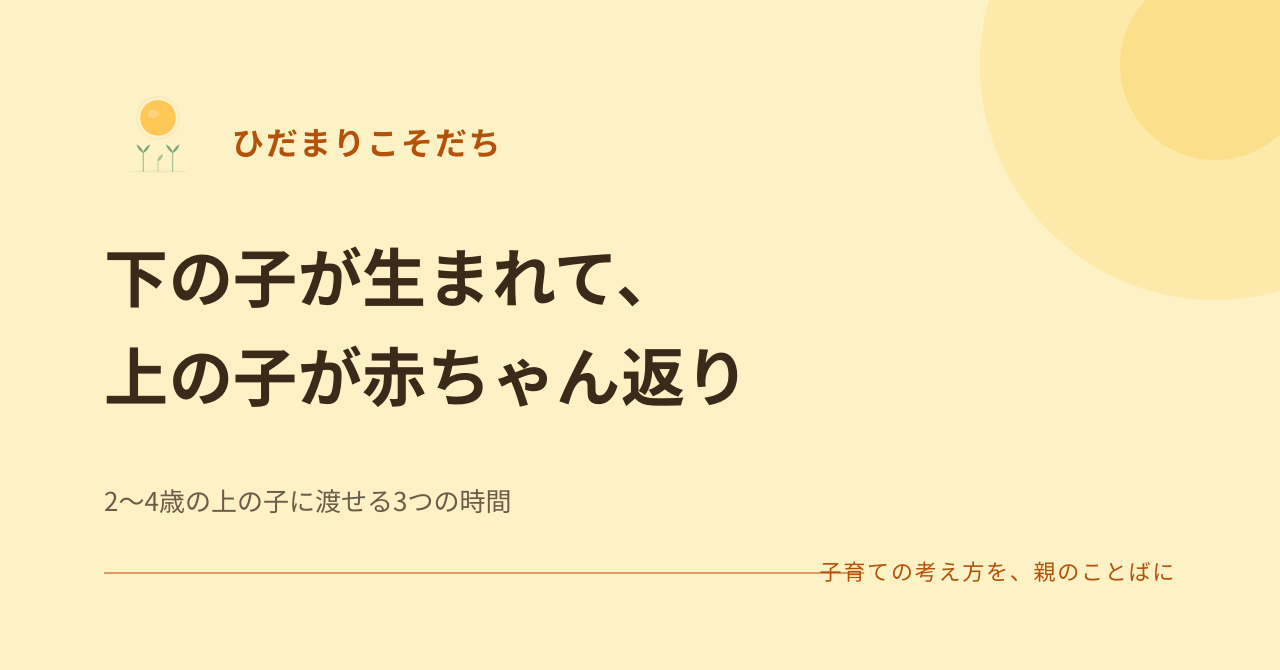
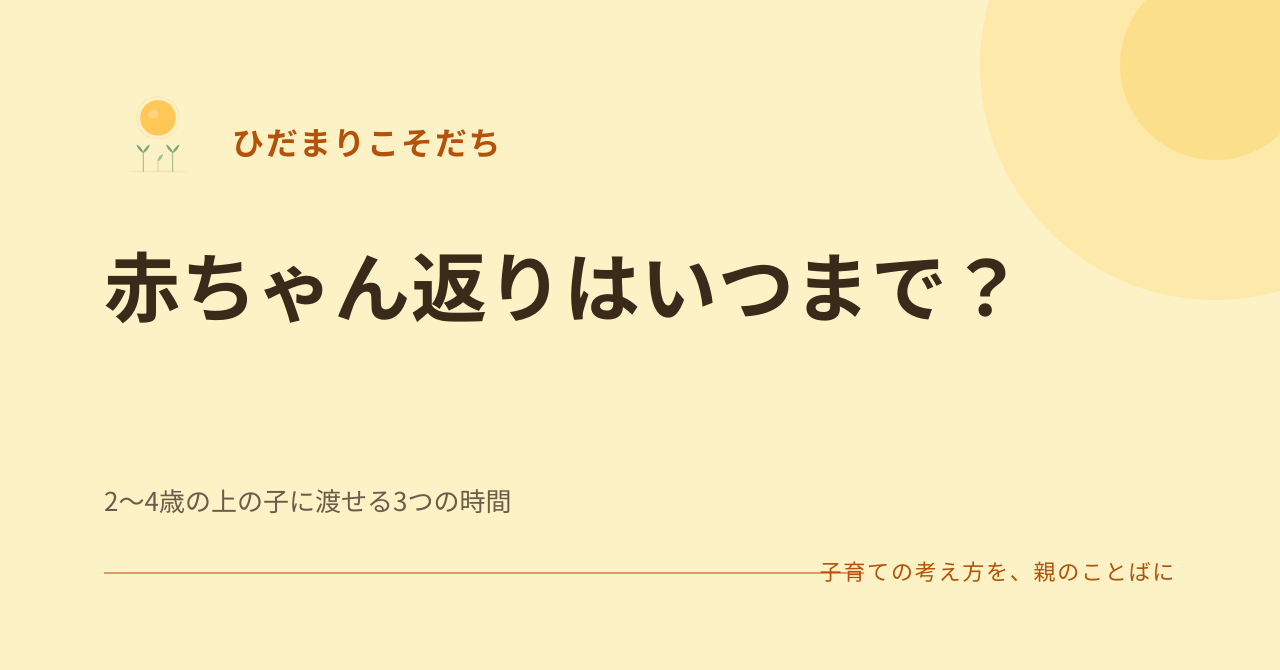
feat: 需要調査 demand_scan.py（検索候補から企画）／10/20 を「赤ちゃん返りはいつまで？」に改題

Changed region(s): [[0.0625, 0.3582, 0.8125, 0.4776], [0.0938, 0.5075, 0.5938, 0.6269]]

diff --git a/scripts/demand_scan.py b/scripts/demand_scan.py
@@ -1,0 +1,79 @@
+#!/usr/bin/env python3
+"""読者が実際に探している言葉を集める（read-only・需要調査）。
+
+オーナー指示（2026-10-16）: 「とにかくユーザーが求めている内容にどこまで寄せれるか。
+常に固定概念を捨てて、新しい試みを」。
+→ 企画を「書きたいこと」からではなく、**検索サジェスト（検索欄に出る候補）**から起こす。
+
+    .venv/bin/python scripts/demand_scan.py                 # 既定の種語で → docs/insights/demand.md
+    .venv/bin/python scripts/demand_scan.py --seed "夜泣き" --seed "トイトレ"
+
+仕組み:
+  - Google の検索候補（suggestqueries・公開エンドポイント）に「種語 + 空白」と
+    「種語 + あ〜わ」の頭文字を足して問い合わせ、候補を集める。
+  - 送るのは種語だけ（個人情報は送らない）。1語あたり0.3秒あけて、短時間に連打しない。
+  - 候補に出てくる回数が多い語ほど、上に並べる（回数＝需要の強さの目安。検索数そのものではない）。
+"""
+from __future__ import annotations
+
+import collections
+import datetime as dt
+import json
+import time
+import urllib.parse
+import urllib.request
+from pathlib import Path
+
+import click
+
+ROOT = Path(__file__).resolve().parent.parent
+OUT = ROOT / "docs/insights/demand.md"
+JST = dt.timezone(dt.timedelta(hours=9))
+
+SEEDS = [
+    "イヤイヤ期", "癇癪 3歳", "赤ちゃん返り", "夜泣き", "寝かしつけ", "トイトレ", "偏食",
+    "保育園 行きたくない", "きょうだいげんか", "怒鳴ってしまう", "育児 疲れた",
+    "知育", "モンテッソーリ", "幼児教育", "絵本 2歳", "叱り方", "褒め方",
+    "言葉が遅い", "発達 心配", "スマホ 子供",
+]
+HEADS = list("あかさたなはまやらわ")
+
+
+def suggest(q: str) -> list[str]:
+    u = "https://suggestqueries.google.com/complete/search?client=firefox&hl=ja&q=" + urllib.parse.quote(q)
+    try:
+        raw = urllib.request.urlopen(u, timeout=10).read().decode("utf-8", "ignore")
+        return json.loads(raw)[1]
+    except Exception:  # noqa: BLE001
+        return []
+
+
+@click.command(help="検索候補から、読者が実際に探している言葉を集める。")
+@click.option("--seed", multiple=True, help="種語（複数可）。省略時は既定の20語")
+@click.option("--deep/--no-deep", default=True, help="種語＋あ〜わ の頭文字でも問い合わせる")
+def main(seed: tuple[str, ...], deep: bool) -> None:
+    seeds = list(seed) or SEEDS
+    lines = ["---", "tags: [insights, demand]", "status: auto-generated",
+             f"updated: {dt.datetime.now(JST):%Y-%m-%d %H:%M} JST",
+             "updated_by: scripts/demand_scan.py（自動生成・手編集しない）", "---", "",
+             "# 🔎 読者が探している言葉（検索候補）", "",
+             "> 企画はここから起こす（[[feedback-chase-user-demand]]）。回数は候補に出た回数で、検索数そのものではない。", ""]
+    for s in seeds:
+        cnt: collections.Counter[str] = collections.Counter()
+        qs = [s + " "] + ([f"{s} {h}" for h in HEADS] if deep else [])
+        for q in qs:
+            for c in suggest(q):
+                rest = c.replace(s, "").strip()
+                if rest:
+                    for w in rest.split():
+                        cnt[w] += 1
+            time.sleep(0.3)
+        top = [f"{w}({n})" if n > 1 else w for w, n in cnt.most_common(15)]
+        lines += [f"## {s}", "", "、".join(top) or "（候補なし）", ""]
+        click.echo(f"{s}: {'、'.join(top[:10])}")
+    OUT.write_text("\n".join(lines) + "\n", encoding="utf-8")
+    click.echo(f"→ {OUT.relative_to(ROOT)}")
+
+
+if __name__ == "__main__":
+    main()

diff --git a/docs/insights/demand.md b/docs/insights/demand.md
@@ -1,0 +1,91 @@
+---
+tags: [insights, demand]
+status: auto-generated
+updated: 2026-10-16 17:56 JST
+updated_by: scripts/demand_scan.py（自動生成・手編集しない）
+---
+
+# 🔎 読者が探している言葉（検索候補）
+
+> 企画はここから起こす（[[feedback-chase-user-demand]]）。回数は候補に出た回数で、検索数そのものではない。
+
+## イヤイヤ期
+
+対応(8)、癇癪(4)、違い(4)、発達障害(3)、ラブ(3)、わがまま(3)、ワンオペ(3)、なぜ(2)、頭(2)、おかしくなる(2)、叫ぶ(2)、ない(2)、激しい子(2)、反抗期(2)、薬(2)
+
+## 癇癪 3歳
+
+3歳(45)、癇癪(45)、発達障害(4)、わがまま(4)、対応(2)、ひどい(2)、薬(2)、対処法(2)、泣き叫ぶ(2)、知恵袋(2)、女の子、噛む、漢方、風邪、金切り声
+
+## 赤ちゃん返り
+
+対応(8)、わがまま(6)、3歳(3)、上の子(3)、2歳(2)、何歳まで(2)、なぜ(2)、癇癪(2)、三歳(2)、対処法(2)、産後(2)、発達障害(2)、違い(2)、漫画(2)、前(2)
+
+## 夜泣き
+
+赤ちゃん(7)、対策(6)、ラーメン(6)、漢方(5)、いつまで(3)、カフェ(3)、大阪(3)、1歳(3)、違い(3)、マンション(3)、夜間授乳(3)、いつから(2)、2歳(2)、何歳まで(2)、暴れる(2)
+
+## 寝かしつけ
+
+いつまで(3)、枠(3)、何歳まで(2)、トントン(2)、イライラ(2)、asmr(2)、魚(2)、大人(2)、胎内音(2)、ママだと寝ない(2)、やり方(2)、ライト(2)、絵本、抱っこ紐、バランスボール
+
+## トイトレ
+
+やり方(8)、ランキング(5)、アンパンマン(3)、わざと(3)、何歳から(2)、絵本(2)、シール(2)、アプリ(2)、完了(2)、何歳(2)、トイレ(2)、全く進まない(2)、3歳(2)、楽天(2)、和室(2)
+
+## 偏食
+
+大人(7)、発達障害(4)、発達障害か(4)、どうか(4)、わがまま(4)、子供(3)、サプリ(3)、野菜(3)、歌詞(2)、レシピ(2)、知恵袋(2)、違い(2)、原因、英語、asd
+
+## 保育園 行きたくない
+
+ママと(13)、いたい(13)、4歳(4)、泣く(4)、3歳(3)、2歳(3)、5歳(3)、保育園(3)、行きたくない(3)、休ませる(3)、6歳(2)、対処法(2)、年(2)、長(2)、子供(2)
+
+## きょうだいげんか
+
+兄弟喧嘩(50)、兄弟げんか(6)、殴り合い(4)、ラーメン屋(3)、警察(2)、アニキ編(2)、対応(2)、対処法(2)、毎日(2)、ラーメン(2)、死亡、親の対応、大人、英語、小学生
+
+## 怒鳴ってしまう
+
+癇癪(6)、子供(4)、やめたい(2)、母親(2)、介護(2)、3歳(2)、4歳(2)、発達障害(2)、わがまま(2)、病気、子育て、家族、2歳、認知症、5歳
+
+## 育児 疲れた
+
+育児(4)、疲れた(4)、家事(3)、知恵袋(2)、やめたい(2)、休みたい(2)、涙が出る(2)、助けて(2)、発達障害(2)、逃げたい、パパ、夫、ひとりになりたい、イライラ、可愛くない
+
+## 知育
+
+タブレット(7)、アプリ(6)、ワーク(6)、小学生(4)、無料(3)、菓子(3)、プリント(2)、カレンダー(2)、徳育(2)、体育(2)、遊び(2)、3歳(2)、5歳(2)、カード(2)、サイト(2)
+
+## モンテッソーリ
+
+棚(9)、鏡(3)、おもちゃ(2)、危ない(2)、習い事(2)、はさみ(2)、ハートバッグ(2)、大阪、シール貼り台紙無料、教具、モビール、1歳、本、時代遅れ、合わない子
+
+## 幼児教育
+
+ランキング(9)、大学(4)、アプリ(3)、関西(2)、おすすめ(2)、本(2)、大切なこと(2)、短期大学(2)、ワーキンググループ(2)、ワーキング(2)、文部科学省(2)、大阪、モンテッソーリ、英語、資格
+
+## 絵本 2歳
+
+絵本(24)、2歳(24)、ランキング(5)、夏(5)、おすすめ(4)、誕生日(3)、野菜(3)、人気(2)、秋(2)、アンパンマン(2)、誕生日プレゼント(2)、プレゼント、女の子、セット、買って
+
+## 叱り方
+
+子供(10)、噛む(7)、犬(5)、3歳(4)、発達障害(4)、わがまま(4)、部下(3)、大人(3)、パワハラに(3)、ならない(3)、万引き(3)、約束を守らない(3)、やってはいけない(3)、本(2)、かりてきたねこ(2)
+
+## 褒め方
+
+女性(8)、マッチングアプリ(6)、男性(5)、ライン(5)、名前(4)、本(3)、叱り方(3)、彼女(3)、写真交換(3)、さしすせそ(2)、彼氏(2)、髪型(2)、line(2)、髪切った(2)、茶道(2)
+
+## 言葉が遅い
+
+発達障害(5)、2歳(3)、3歳(2)、癇癪(2)、療育、障害、4歳、おすすめ、おもちゃ、知的障害、自閉症、言い換え、adhd、頭が悪い、頭が良い
+
+## 発達 心配
+
+発達(3)、心配(3)、歳(2)、し、すぎ、相談、幼稚園、1、赤ちゃん、子供、3歳、2、4歳、に、が
+
+## スマホ 子供
+
+子供(40)、スマホ(40)、の(9)、ない(8)、制限(6)、安い(6)、ライブ(5)、アプリ(4)、初めて(4)、マイ(4)、おすすめ(3)、課金(3)、た(3)、ライン(3)、プラン(2)
+

diff --git a/docs/note/exploration_v1.md b/docs/note/exploration_v1.md
@@ -76,7 +76,7 @@ related: [[education_method_series_v1]] [[market_research_v1]] [[positioning_v2]
 | 10/17(金) | G4 研究を読む | 親のスマホと子どもの「かんしゃく」の研究を読む（入稿済・10/15 オーナー指示で19日から移動） |
 | 10/18(土) | G3 親の自責 | スマホを見ていて、子どもの「見て」を聞き逃した日に |
 | 10/19(日) | G5 上流の問い | 「どんな子に育ってほしい？」に、すぐ答えられなかった日に（入稿済・17日と入れ替え） |
-| 10/20(月) | G2 困りごと | 下の子が生まれて、上の子が赤ちゃん返り — 2〜4歳の上の子に渡せる3つの時間（入稿済） |
+| 10/20(月) | G2 困りごと | 赤ちゃん返りはいつまで？ — 2〜4歳の上の子に渡せる3つの時間（入稿済・10/16 検索候補に合わせて改題） |
 | 10/21(火) | G1 教育方法 | モンテッソーリを家でやるなら（入稿済） |
 | 10/22(水) | G3 親の自責 | ほかの子と比べてしまった日に — 「できる時期」には、これだけ幅がある（入稿済） |
 | 10/23(木) | G4 研究を読む | 未定 |
@@ -90,6 +90,23 @@ related: [[education_method_series_v1]] [[market_research_v1]] [[positioning_v2]
 | 10/31(金) | — | 予備（落とした日の振替） |
 
 在庫の連載10（成長マインドセット）は G1 の予備に回す。
+
+## 需要から起こす新しい試み（オーナー指示 2026-10-16）
+
+> 「とにかくユーザーが求めている内容にどこまで寄せれるか。常に固定概念を捨てて、新しい試みを」（[[feedback-chase-user-demand]]）
+> 企画は `scripts/demand_scan.py`（検索候補）→ [[demand]] から起こす。
+
+2026-10-16 の検索候補で見えたこと:
+
+| 見えたこと | 例 | 試すこと |
+|---|---|---|
+| **「いつまで／何歳まで」が多い** | 赤ちゃん返り・寝かしつけ・夜泣き・イヤイヤ期 | タイトルを検索の問いの形にする（10/20 から実施） |
+| **悩みと「発達障害」が一緒に探されている** | イヤイヤ期・癇癪・偏食・言葉が遅い・叱り方 | 「発達障害かも」と不安な人への記事。**判断はせず**、相談の目安と「相談したら何が起きるか」を書く |
+| **「わがまま」と一緒に探されている** | 癇癪・赤ちゃん返り・偏食・イヤイヤ期 | 「わがままなのか、それとも」の切り口 |
+| **保育園「ママといたい」** | 保育園 行きたくない ママといたい | 行きしぶりの記事（親の罪悪感も含めて） |
+| **親の限界の言葉** | 育児 疲れた → やめたい・逃げたい・涙が出る | 夜に検索する親へ向けた記事（G3） |
+| **知育は無料プリント・ワーク・アプリ** | 知育 プリント／無料／モンテッソーリ シール貼り台紙無料 | **無料で印刷できる教材をサイトに置く**（デジタル製品の芽・[[chiiku_policy_v1]] を需要で見直す） |
+| **モンテッソーリ「棚」「危ない」** | モンテッソーリ 棚／危ない | 「棚は要るか」「危ないって本当？」— 両論併記はうちの得意 |
 
 ## 判定と次
 

diff --git a/docs/note/articles/25_g2_akachan-gaeri.md b/docs/note/articles/25_g2_akachan-gaeri.md
@@ -1,7 +1,7 @@
 ---
-title: "下の子が生まれて、上の子が赤ちゃん返り — 2〜4歳の上の子に渡せる3つの時間"
+title: "赤ちゃん返りはいつまで？ — 2〜4歳の上の子に渡せる3つの時間"
 slug: 25_g2_akachan-gaeri
-story_title: "下の子が生まれて、上の子が赤ちゃん返り｜2〜4歳の上の子に渡せる3つの時間"
+story_title: "赤ちゃん返りはいつまで？｜2〜4歳の上の子に渡せる3つの時間"
 type: note_article
 article_no: 25
 series: "探索期（ジャンル検証）"
@@ -12,7 +12,7 @@ status: ceo_approved
 ceo_review_required: false
 ceo_reviewed: 2026-10-16
 created: 2026-10-16
-note_draft_key: nb0772f0d8f58  # 下書き入稿済
+note_draft_key: n73cfc4e40e60  # 下書き入稿済（改題で作り直し・旧 nb0772f0d8f58 は不要）
 author: メインClaude（CEO・探索期 G2 困りごと 2本目）
 note_tags: [子育て, 育児, 子育ての悩み, 育児日記, 赤ちゃん返り, きょうだい, 二人育児, 上の子, 育児の悩み]
 source:
@@ -27,7 +27,7 @@ target_chars: 1800-2200
 
 ## 記事本文（ここから下を note へ）
 
-# 下の子が生まれて、上の子が赤ちゃん返り — 2〜4歳の上の子に渡せる3つの時間
+# 赤ちゃん返りはいつまで？ — 2〜4歳の上の子に渡せる3つの時間
 
 > 授乳しているそばで、上の子が「ぼくも抱っこ」と腕を引く。
 > もうひとりで食べられるはずのごはんを、「食べさせて」と言う。
@@ -70,6 +70,27 @@ target_chars: 1800-2200
 それだけで心配することではありません。
 そして、変化の多くは
 **「親とのやりとりが減った」ことへの反応**だと考えられます。
+
+## いつまで続くのか
+
+いちばん知りたいのは、ここだと思います。
+
+正直に書くと、
+**「何か月で終わる」と言える研究はありません。**
+
+ヴォリングのレビューでは、上の子の変化は
+大きく3つの型に分かれていました。
+
+- しばらく荒れる時期がある子
+- 下の子をきっかけに、できることが増える子
+- ほとんど変化が見えない子
+
+どの型になるかは、子どもの気質や、
+親の余裕、まわりの手助けで変わると整理されています。
+
+だから「いつまで」は、
+**家庭の側で少し動かせるもの**でもあります。
+次の3つは、そのための時間です。
 
 ## 上の子に渡せる3つの時間
 
@@ -160,3 +181,7 @@ target_chars: 1800-2200
 - 「お母さんとのやりとりが減る」はレビューの記述に沿った（母親に
   限らない一般化はしていない）。
 - 「頼む」は強制しない、と明記。
+- 2026-10-16 改題: 検索候補で「赤ちゃん返り」は「いつまで
+  ／何歳まで」と一緒に探されている（[[demand]]）。
+  タイトルを問いの形にし、「いつまで続くのか」節を追加。
+  答えは「決まった期間を示す研究はない」と正直に書いた。

diff --git a/docs/tasks/posting_schedule.md b/docs/tasks/posting_schedule.md
@@ -51,7 +51,7 @@ related: [[this_week]] [[backlog]]
 | **10/16(木)** | note | 探索期 G2「「イヤ」が1日に何十回も — 2歳の親が先に決めておく3つのこと」（[[exploration_v1]]） | 🤖Claude | ✅ 公開＋IGストーリー https://note.com/hidamari_sodachi/n/ne847661234d5 |
 | **10/18(土)** | note | 探索期 G3「怒鳴ってしまった夜に、寝顔を見ている人へ」 | 🤖Claude | 🟡 下書き入稿済 |
 | **10/17(金)** | note | 探索期 G4（オーナー指示で19日から移動）「親のスマホと、子どもの「かんしゃく」— 170組を調べた研究を読む」 | 🤖Claude | 🟡 下書き入稿済 |
-| 10/20(月) | note | 探索期 G2「下の子が生まれて、上の子が赤ちゃん返り」 | 🤖Claude | 🟡 下書き入稿済 |
+| 10/20(月) | note | 探索期 G2「赤ちゃん返りはいつまで？」（検索候補に合わせて改題） | 🤖Claude | 🟡 下書き入稿済 |
 | 10/22(水) | note | 探索期 G3「ほかの子と比べてしまった日に」 | 🤖Claude | 🟡 下書き入稿済 |
 | **10/21(火)** | note | **教育方法シリーズ①「モンテッソーリを家でやるなら — 2〜3歳、教具を買わずにできる5つ」**（[[education_method_series_v1]]） | 🤖Claude | 🟡 下書き入稿済 → 開いたら公開 |
 | 保留 | note | ¥100 相性記事（paid_ladder_v2 商品A） | 🤖Claude | ⏸ 診断の回答0件のため保留を提案中 |
